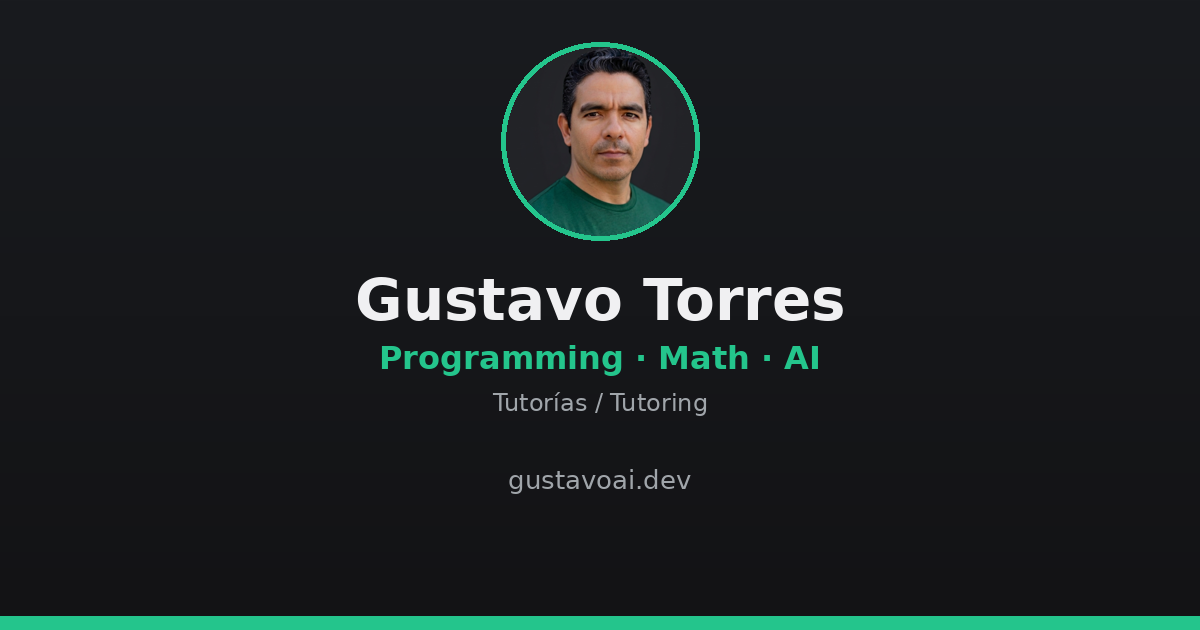
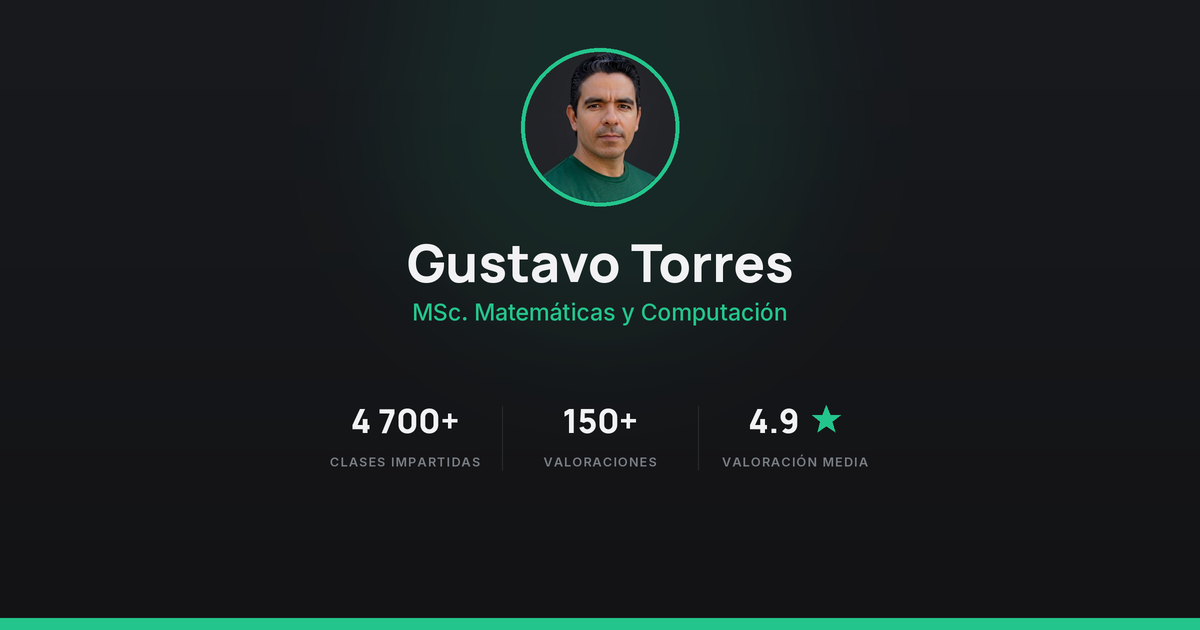
feat(seo): locale-specific OG share image (es/en)
The OG card now shows credibility info baked into the image — MSc
credential + Classgap stats (4,700+ classes, 150+ reviews, 4.9★) — which
is language-specific, so a single shared image no longer works. Adds an
English og-en.png alongside the Spanish og.png and selects per locale in
the root layout's generateMetadata (both openGraph and twitter images).
Also drops the earlier code/math corner motifs.
[skip ci]

diff --git a/src/app/[locale]/layout.tsx b/src/app/[locale]/layout.tsx
@@ -59,6 +59,10 @@ export async function generateMetadata({
 }): Promise<Metadata> {
   const { locale } = await params;
   const t = await getTranslations({ locale, namespace: "meta.root" });
+  // SEO-03: locale-specific share image (credential + credibility stats are
+  // baked into the PNG, so each locale needs its own). Spanish is the default
+  // (`/og.png`); English uses `/og-en.png`.
+  const ogImage = locale === "en" ? "/og-en.png" : "/og.png";
   return {
     metadataBase: new URL(process.env.NEXT_PUBLIC_BASE_URL ?? "https://gustavoai.dev"),
     title: t("title"),
@@ -66,8 +70,8 @@ export async function generateMetadata({
     robots: { index: true, follow: true },
     alternates: localizedAlternates("", locale),
     // SEO-03: OpenGraph + Twitter cards for social/link previews. Relative
-    // URLs resolve against metadataBase; /og.png is a static asset (bypasses
-    // the intl middleware via its extension check).
+    // URLs resolve against metadataBase; the og image is a static asset
+    // (bypasses the intl middleware via its extension check).
     openGraph: {
       type: "website",
       siteName: "gustavoai.dev",
@@ -76,13 +80,13 @@ export async function generateMetadata({
       url: locale === "en" ? "/en" : "/",
       locale: locale === "en" ? "en_US" : "es_ES",
       alternateLocale: locale === "en" ? "es_ES" : "en_US",
-      images: [{ url: "/og.png", width: 1200, height: 630, alt: t("title") }],
+      images: [{ url: ogImage, width: 1200, height: 630, alt: t("title") }],
     },
     twitter: {
       card: "summary_large_image",
       title: t("title"),
       description: t("description"),
-      images: ["/og.png"],
+      images: [ogImage],
     },
     icons: {
       icon: [
